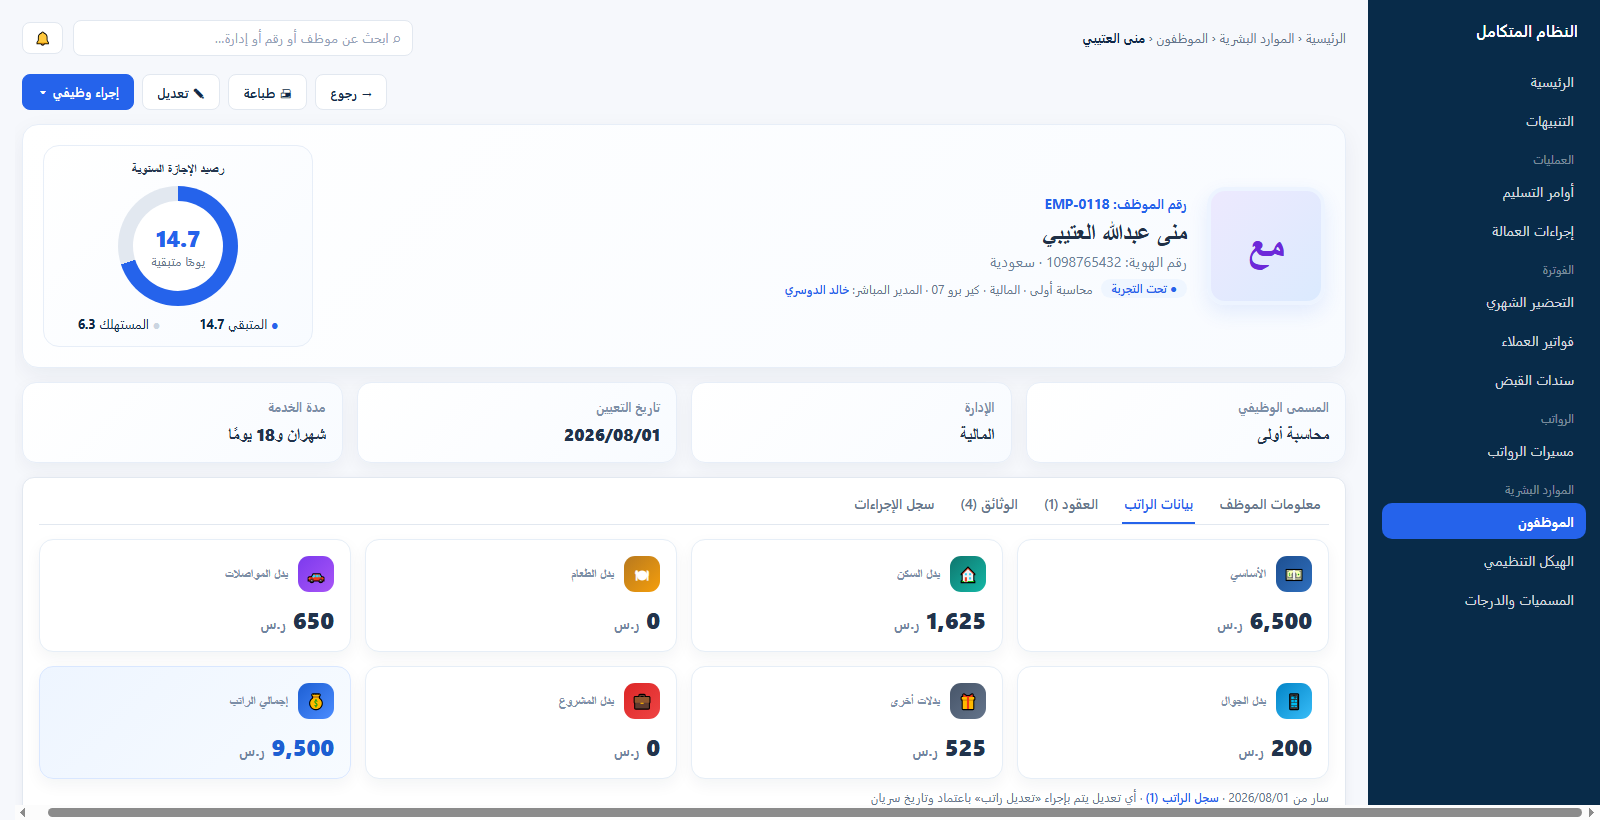
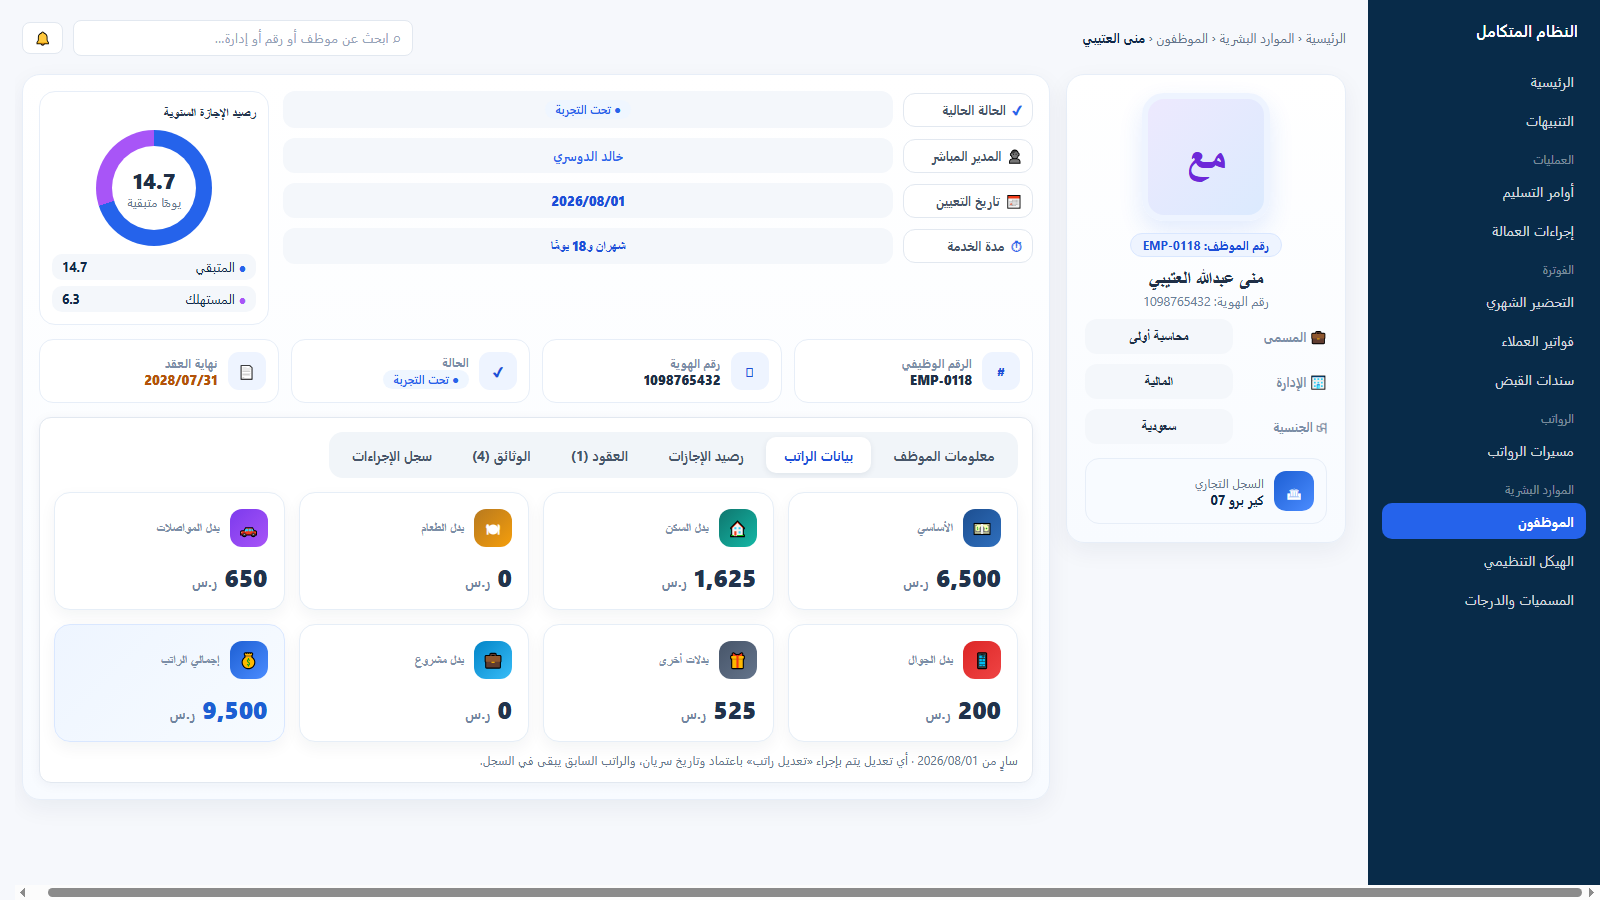
docs: phase 4.4 — the employee file after the latest version of the old employee screen

diff --git a/docs/03-migration-plan/07-phase-4-4-plan.md b/docs/03-migration-plan/07-phase-4-4-plan.md
@@ -11,7 +11,7 @@
 | الصورة | ما تعرضه |
 |---|---|
 | [wf-staff-directory.png](../02-target-architecture/assets/wf-staff-directory.png) | دليل الموظفين: البطاقات (العدد بالحالة، تحت التجربة، عقود تنتهي، بلا إدارة، شواغر)، والتابات، والفلاتر، والجدول |
-| [wf-staff-profile.png](../02-target-architecture/assets/wf-staff-profile.png) · [الراتب](../02-target-architecture/assets/wf-staff-profile-salary.png) · [السجل](../02-target-architecture/assets/wf-staff-profile-history.png) | ملف الموظف على نمط شاشة الموظف في النظام القديم (`HR_EmployeeDetails`): بطاقة الملف بالصورة ورقم الموظف بالأزرق فوق الاسم ولوحة رصيد الإجازة الدائرية، ثم أربع بطاقات صغيرة، ثم التابات: معلومات الموظف (مربعات عنوان وقيمة)، وبيانات الراتب (بطاقة لكل عنصر بأيقونة ملونة وبطاقة الإجمالي)، والعقود، والوثائق، وسجل الإجراءات (بطاقات زمنية) |
+| [wf-staff-profile.png](../02-target-architecture/assets/wf-staff-profile.png) · [الراتب](../02-target-architecture/assets/wf-staff-profile-salary.png) · [الإجازات](../02-target-architecture/assets/wf-staff-profile-leave.png) | ملف الموظف على نمط **آخر نسخة** من شاشة الموظف في النظام القديم (`TestCAREV/.../HR_EmployeeDetails.aspx`، 2026-09-15): لوحة جانبية بالصورة وشارة الرقم والاسم والهوية والحقائق وبطاقة السجل التجاري؛ وصفوف «عنوان بأيقونة ⇐ قيمة» مع بطاقة دائرية (رصيد الإجازة بدل نسبة التشغيل)؛ وشريط أربع بطاقات سريعة؛ وتابات على شكل أقراص: معلومات الموظف، وبيانات الراتب (بطاقة بأيقونة ملونة لكل عنصر وبطاقة الإجمالي)، ورصيد الإجازات (بطاقات خضراء)، والعقود، والوثائق، وسجل الإجراءات |
 | [wf-org-structure.png](../02-target-architecture/assets/wf-org-structure.png) | الهيكل التنظيمي: الإدارات ومديروها ومراكز تكلفتها، والملاك الوظيفي بالشاغل والشاغر، وعرض شجري بديل |
 
 الأسماء والأرقام في الرسومات للتوضيح فقط.
